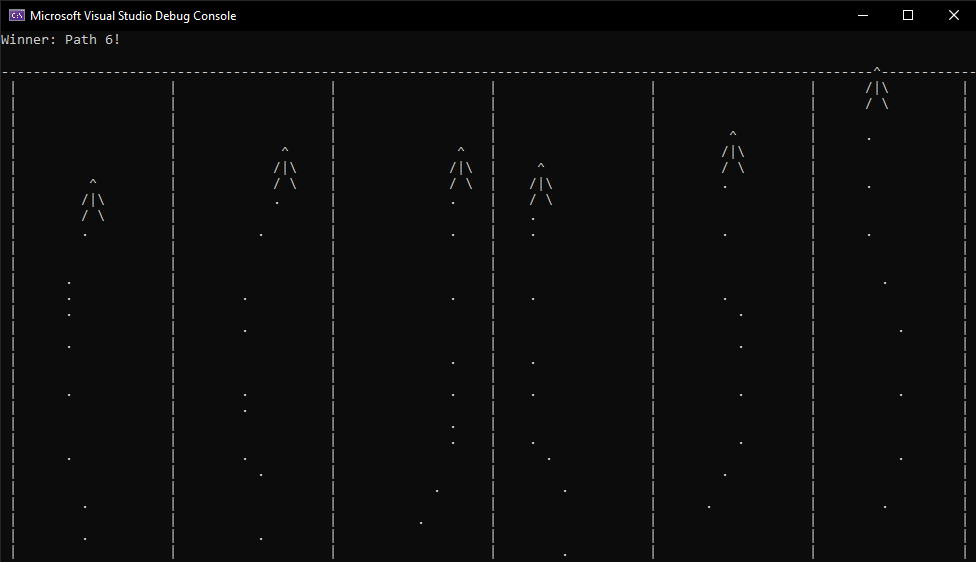
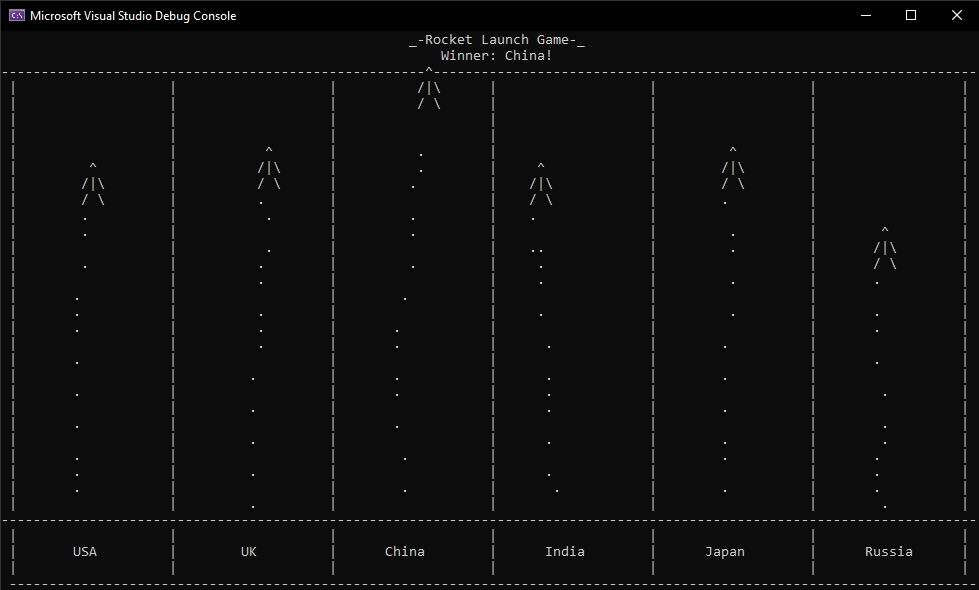
chore: make minor interface and project tweaks Improves message display. Adds preview image to project.

diff --git a/main.cpp b/main.cpp
@@ -14,7 +14,10 @@ void setupWindow();
 void setupRockets(vector<Path*> _paths, int _startLine);
 void setupPaths(int _startLine, int _finishLine, vector<Path*> _paths);
 void setupPathNames(int _startLine, vector<Path*> _paths);
+void showTitle();
 void showIntro(Coordinates _messagePos);
+Coordinates centerMessage(Coordinates pos, string message);
+void displayMessage(Coordinates pos, string message);
 Coordinates generateMovement(Coordinates _pos);
 void eraseRocket(Coordinates _pos);
 void displayRocket(Coordinates _pos);
@@ -25,6 +28,7 @@ int main() {
     bool gameOver = false;
     const int startLine = 30;
     const int finishLine = 2;
+    string endMessage;
     Coordinates messagePos(1, 1);
     Coordinates endCoordinates(0, startLine + 4);
     Rocket rocket1;
@@ -49,6 +53,7 @@ int main() {
     setupRockets(paths, startLine);
     setupPaths(startLine, finishLine, paths);
     setupPathNames(startLine, paths);
+    showTitle();
     showIntro(messagePos);
 
     // Main game loop
@@ -79,8 +84,9 @@ int main() {
                 cout << "-^";
                 // Displays win message
                 clearMessageBar(messagePos);
-                setCursor(messagePos);
-                cout << " Winner: " << path->getName() << "!";
+                endMessage = "Winner: " + path->getName() + "!";
+                messagePos = centerMessage(messagePos, endMessage);
+                displayMessage(messagePos, endMessage);
                 gameOver = true;
                 break;
             }
@@ -91,8 +97,9 @@ int main() {
                 cout << " X";
                 // Displays collision message
                 clearMessageBar(messagePos);
-                setCursor(messagePos);
-                cout << " Collision in " << path->getName() << "!";
+                endMessage = path->getName() + "'s rocket crashed!";
+                messagePos = centerMessage(messagePos, endMessage);
+                displayMessage(messagePos, endMessage);
                 gameOver = true;
                 break;
             }
@@ -189,23 +196,50 @@ void setupPathNames(int _startLine, vector<Path*> _paths) {
     }
 }
 
-void showIntro(Coordinates _messagePos) {
-    // Display game title
+void showTitle() {
+    // Displays game title
     Coordinates pos(61, 0);
     string gameName = "_-Rocket Launch Game-_";
-    pos.col -= gameName.length() / 2;
-    if ((gameName.length() % 2) == 0) {
-        pos.col += 1;
-    }
+    pos = centerMessage(pos, gameName);
     setCursor(pos);
     cout << gameName;
-    // Display launch message
-    setCursor(_messagePos);
-    for (int i = 3; i >= 1; --i) {
-        cout << i << "... ";
-        Sleep(1000);
+}
+
+void showIntro(Coordinates _messagePos) {
+    // Displays launch message
+    string message;
+    for (int i = 3; i >= 0; --i) {
+        clearMessageBar(_messagePos);
+        // Appends to message depending on countdown number
+        if (i > 0) {
+            message += to_string(i) + "... ";
+        }
+        else if (i == 0) {
+            message += "Launch!";
+        }
+        // Centers message
+        _messagePos = centerMessage(_messagePos, message);
+        setCursor(_messagePos);
+        cout << message;
+        // Sets delay between countdown, skipped at 0
+        if (i != 0) {
+            Sleep(1000);
+        }
     }
-    cout << "Launch!";
+}
+
+Coordinates centerMessage(Coordinates pos, string message) {
+    pos.col = (61 - (message.length() / 2));
+    // Fixes oddity in spacing when string is even-numbered
+    if ((message.length() % 2) == 0) {
+        pos.col += 1;
+    }
+    return pos;
+}
+
+void displayMessage(Coordinates pos, string message) {
+    setCursor(pos);
+    cout << message;
 }
 
 Coordinates generateMovement(Coordinates _pos) {
